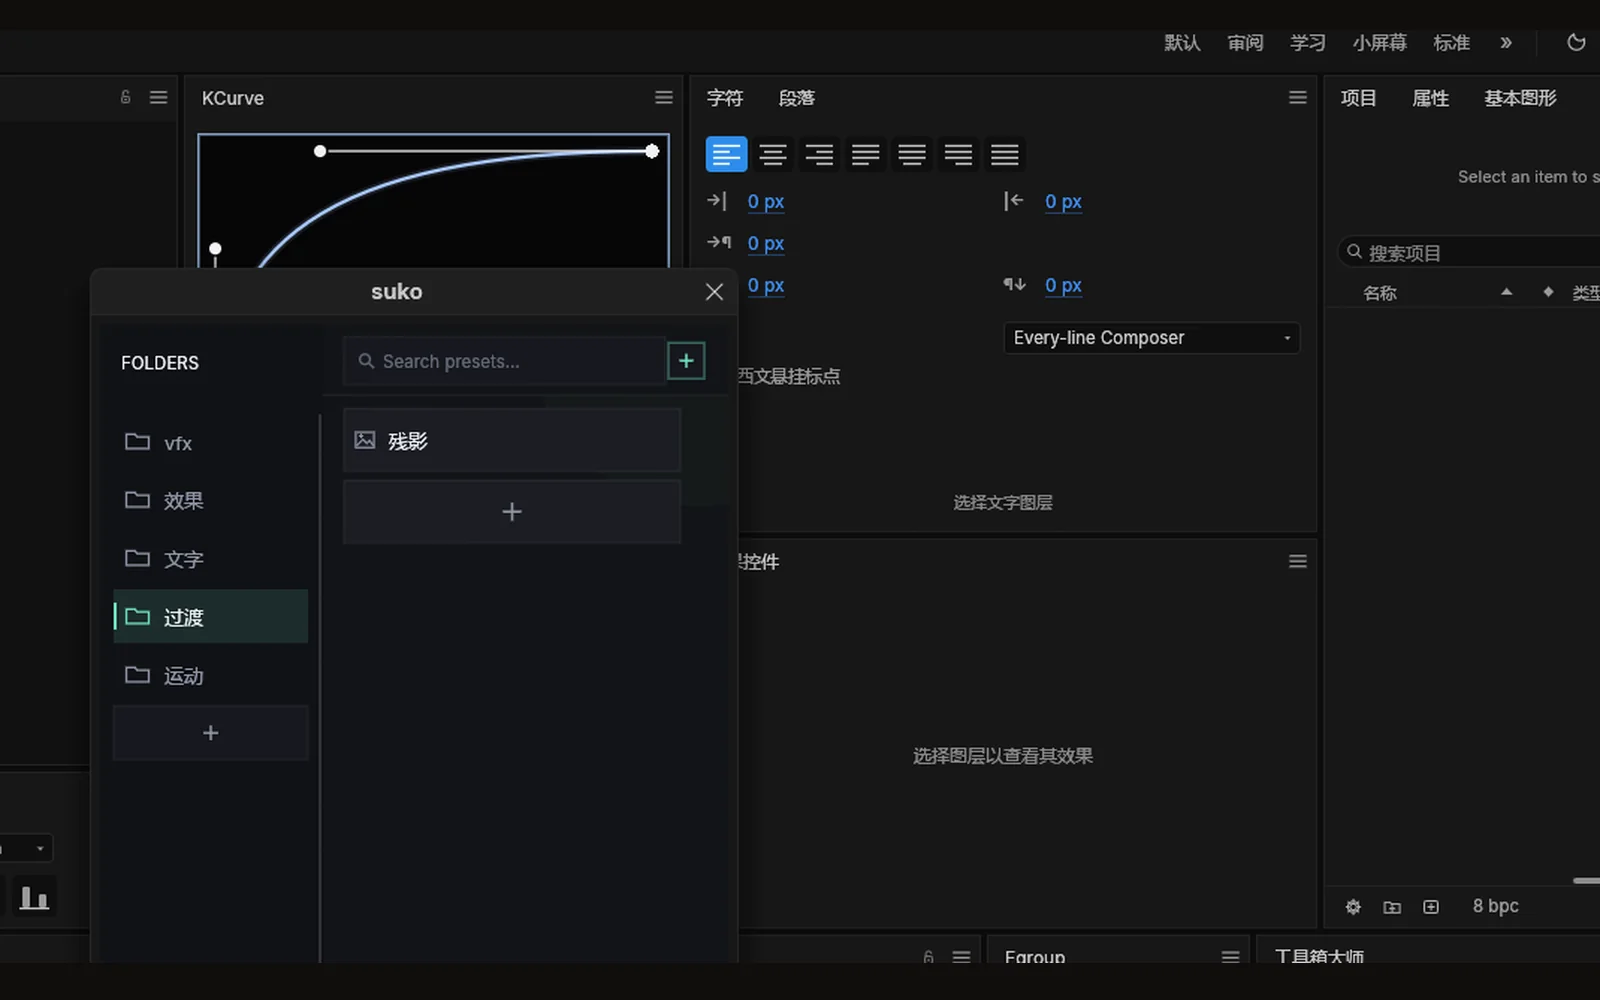
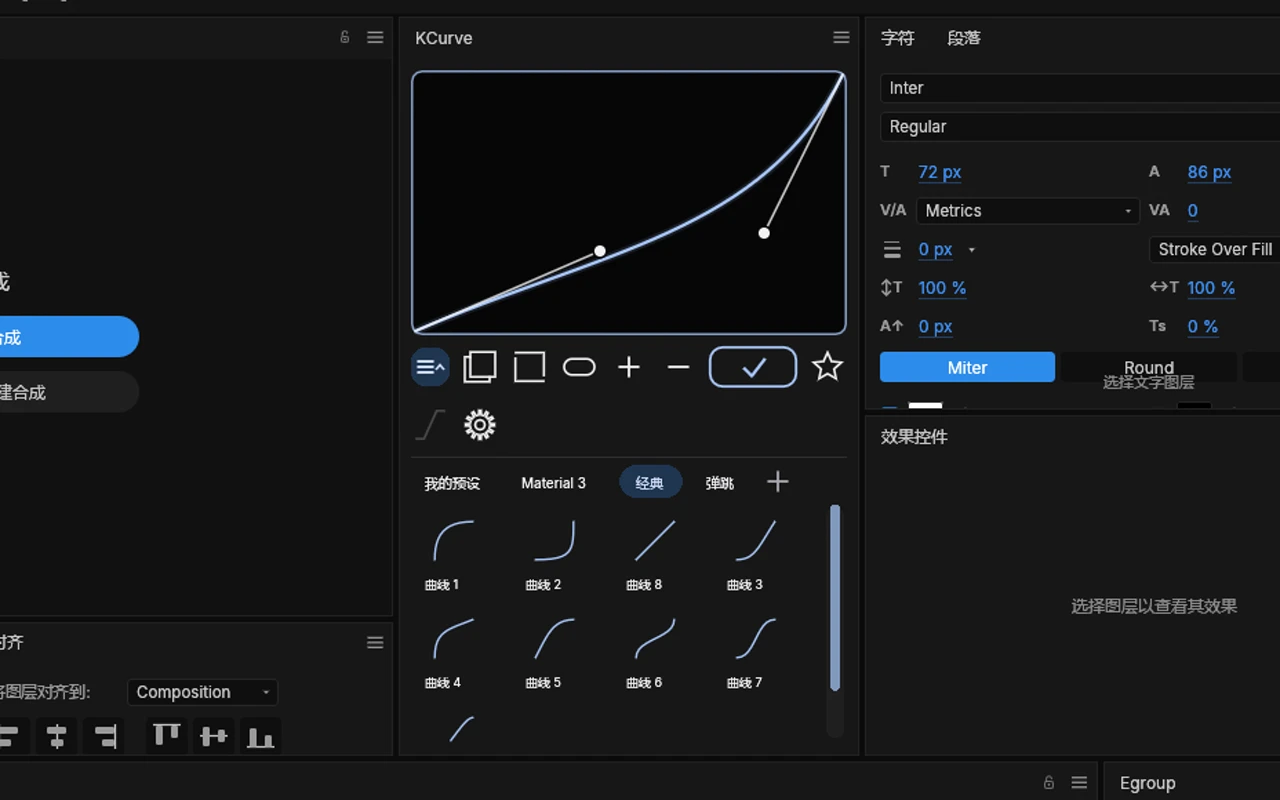
chore: refresh KCurve v2.0.10 screenshots from EffectCraft

diff --git a/js/data.js b/js/data.js
@@ -101,12 +101,12 @@ window.MOSSLS = {
     },
     {
       id: "kcurve",
-    shots: ["assets/shots/kcurve-1.webp", "assets/shots/kcurve-2.webp"],
+      shots: ["assets/shots/kcurve-1.webp", "assets/shots/kcurve-2.webp"],
       name: "KCurve",
       initial: "K",
       repo: "KCurve",
       category: "scripts",
-      version: "v2.0.2",
+      version: "v2.0.10",
       platform: "EffectCraft",
       license: "MIT",
       tags: ["EffectCraft", "ScriptUI"],
